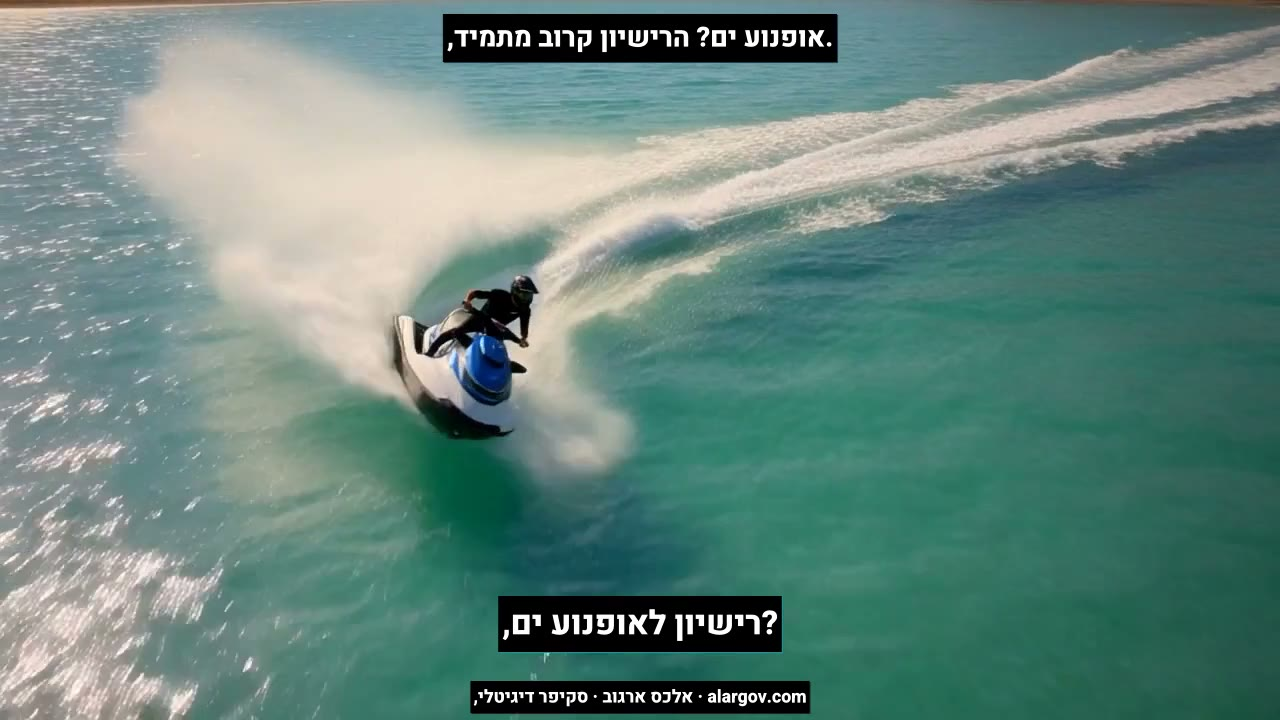
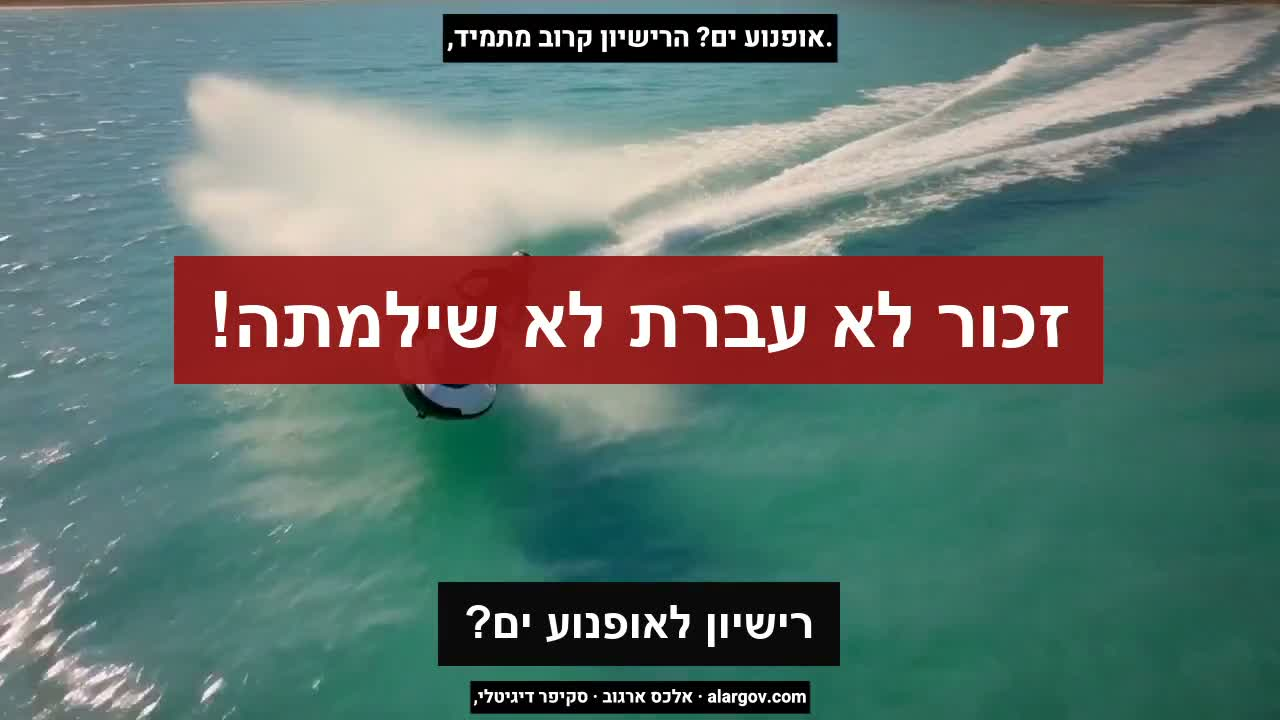
site: fix intro video VO + captions, update pricing/lesson-count copy, add license roadmap + dictionary link
- New intro.mp4: corrected pronunciation (edge-tts natural pace), fixed
  the "?רישיון לאופנוע ים" RTL caption bug, added the refund-reminder
  overlay at start and through the closing shot. Same scenes as before,
  each just retimed to the new VO.
- Homepage copy: mention the 13 lesson units everywhere the course is
  described (hero, price card, FAQ x2, meta/og description). Founders
  pricing banner now hides itself once slots sell out instead of
  showing a stale "10 first at 199" claim next to the sold-out note.
- "Coming soon" chips: named licenses 12 (fast boat, in progress),
  30 (yacht), 40 (commercial operator), 60 (GMDSS).
- Footer: link to the Marine Dictionary Android app.
- data/l11.json + the ezorei-shayit.html SEO page: completed a
  truncated answer option ("...5 קשרים (9קמ" -> "...9 קמ\"ש)."),
  using the wording already present in that question's own
  voiceover_text.

diff --git a/course/site/index.html b/course/site/index.html
@@ -4,14 +4,14 @@
 <meta charset="utf-8">
 <meta name="viewport" content="width=device-width, initial-scale=1, viewport-fit=cover">
 <title>קורס תיאוריה לאופנוע ים · הכנה למבחן רספ״ן | אלכס ארגוב</title>
-<meta name="description" content="קורס הכנה למבחן התאוריה (טסט) של רישיון אופנוע ים. כל שאלות המאגר הרשמי של רספ״ן, הסבר בקול רם לכל שאלה, מערכי שיעור מצולמים ומבחני דמה. לא עברת? קבל את כספך בחזרה.">
+<meta name="description" content="קורס הכנה למבחן התאוריה (טסט) של רישיון אופנוע ים. כל שאלות המאגר הרשמי של רספ״ן, הסבר בקול רם לכל שאלה, 13 מערכי שיעור מצולמים ומבחני דמה. לא עברת? קבל את כספך בחזרה.">
 <meta name="keywords" content="רשיון אופנוע ים, רישיון אופנוע ים, מבחן תיאוריה אופנוע ים, טסט אופנוע ים, טסט על אופנוע ים, תיאוריה שיט, מבחן רספן, קורס אופנוע ים, מאגר שאלות אופנוע ים">
 <meta name="theme-color" content="#0a1428">
 <link rel="canonical" href="https://www.alargov.com/">
 <meta name="sq-api" content="https://api.alargov.com"><!-- כתובת ה-API החי (Railway custom domain). -->
 <meta property="og:site_name" content="אלכס ארגוב · הכנה לתיאוריה בשיט">
 <meta property="og:title" content="קורס תיאוריה לאופנוע ים · הכנה למבחן רספ״ן">
-<meta property="og:description" content="לא עברת? קבל את כספך בחזרה. כל שאלות המאגר הרשמי, בליווי מערכי שיעור מצולמים והסבר קולי לכל שאלה.">
+<meta property="og:description" content="לא עברת? קבל את כספך בחזרה. כל שאלות המאגר הרשמי, בליווי 13 מערכי שיעור מצולמים והסבר קולי לכל שאלה.">
 <meta property="og:type" content="website">
 <meta property="og:url" content="https://www.alargov.com/">
 <meta property="og:locale" content="he_IL">
@@ -354,7 +354,7 @@
     {
       "@type": "Course",
       "name": "קורס תיאוריה לרישיון אופנוע ים (11)",
-      "description": "הכנה מלאה למבחן התאוריה של רישיון אופנוע ים: כל שאלות המאגר הרשמי של רספ״ן, הסבר קולי לכל שאלה, מערכי שיעור מצולמים ומבחני דמה בפורמט האמיתי.",
+      "description": "הכנה מלאה למבחן התאוריה של רישיון אופנוע ים: כל שאלות המאגר הרשמי של רספ״ן, הסבר קולי לכל שאלה, 13 מערכי שיעור מצולמים ומבחני דמה בפורמט האמיתי.",
       "inLanguage": "he",
       "provider": { "@id": "https://www.alargov.com/#org" },
       "offers": {
@@ -382,12 +382,12 @@
         {
           "@type": "Question",
           "name": "מה כולל הקורס?",
-          "acceptedAnswer": { "@type": "Answer", "text": "כל שאלות המאגר הרשמי, הסבר קולי לכל שאלה, מערכי שיעור מצולמים לפי נושאי הסילבוס, ומבחני דמה בפורמט האמיתי." }
+          "acceptedAnswer": { "@type": "Answer", "text": "כל שאלות המאגר הרשמי, הסבר קולי לכל שאלה, 13 מערכי שיעור מצולמים המכסים את כל נושאי הסילבוס, ומבחני דמה בפורמט האמיתי." }
         },
         {
           "@type": "Question",
           "name": "כמה עולה הקורס?",
-          "acceptedAnswer": { "@type": "Answer", "text": "10 הנרשמים הראשונים מקבלים גישה מלאה ב-199 ש״ח במסלול המייסדים. לאחר מכן המחיר 349 ש״ח." }
+          "acceptedAnswer": { "@type": "Answer", "text": "10 הנרשמים הראשונים מקבלים גישה מלאה ל-13 מערכי השיעור ולמאגר השאלות המלא ב-199 ש״ח במסלול המייסדים. לאחר מכן המחיר 349 ש״ח." }
         },
         {
           "@type": "Question",
@@ -441,7 +441,8 @@
       <h1>לא עברת? קבל את <span class="accent">כספך בחזרה.<span class="ast">*</span></span></h1>
       <p class="sub">כל שאלות המאגר, בליווי מערכי שיעור מסודרים שמסבירים לעומק כל שאלה ושאלה. לומדים, מתרגלים ומוודאים הבנה מלאה עד שמרגישים בטוחים, ניגשים למבחן ועוברים בהצלחה.</p>
       <div class="founders">
-        10 הנרשמים הראשונים מקבלים גישה מלאה ב־<b>₪199</b>. לאחר מכן המחיר עולה ל־<b>₪349</b>.
+        13 מערכי שיעור מלאים שמכסים את כל חומר המבחן, מאגר השאלות המלא וסרטון הסבר לכל שאלה.
+        <span id="foundersPriceLine">במחיר השקה: 10 הנרשמים הראשונים ב־<b>₪199</b>, אחר כך <b>₪349</b>.</span>
         <span class="spots-live" id="spotsHero"></span>
       </div>
       <div class="hero-actions">
@@ -456,7 +457,7 @@
       <div class="glow"></div>
       <div class="vframe" data-autoplay>
         <video controls autoplay muted playsinline preload="auto" poster="assets/intro-poster.jpg">
-          <source src="https://res.cloudinary.com/dzmyg9pel/video/upload/v1787133698/skipper-quiz/site/intro.mp4" type="video/mp4">
+          <source src="https://res.cloudinary.com/dzmyg9pel/video/upload/v1789303417/skipper-quiz/site/intro.mp4" type="video/mp4">
         </video>
         <button class="vplay" type="button" aria-label="נגן סרטון"><svg viewBox="0 0 24 24" fill="currentColor" aria-hidden="true"><path d="M8 5v14l11-7z"/></svg></button>
         <button class="vsound" type="button" aria-label="הפעל קול"><svg viewBox="0 0 24 24" fill="currentColor" aria-hidden="true"><path d="M3 10v4h4l5 5V5L7 10H3zm11.5 2a4.5 4.5 0 0 0-2.5-4.03v8.06A4.5 4.5 0 0 0 14.5 12zM14 3.23v2.06a7 7 0 0 1 0 13.42v2.06a9 9 0 0 0 0-17.54z"/></svg>הפעל קול</button>
@@ -540,7 +541,7 @@
         <span class="tag">זמין עכשיו</span>
         <div>
           <h3>רישיון אופנוע ים <span style="color:var(--faint);font-weight:700">(11)</span></h3>
-          <div class="sub">הקורס המלא: שיעורים, בנק שאלות וסרטונים, ומבחני דמה.</div>
+          <div class="sub">הקורס המלא: 13 מערכי שיעור, בנק שאלות וסרטונים, ומבחני דמה.</div>
         </div>
       </div>
       <div class="exam-cta">
@@ -551,12 +552,12 @@
         <div class="buy-guarantee">לא עברת? קבל את כספך חזרה.<span class="ast">*</span></div>
       </div>
     </div>
-    <div class="soon-label" data-reveal>בקרוב, אותה שיטה</div>
+    <div class="soon-label" data-reveal>בהכנה, אותה שיטה</div>
     <div class="soon" data-reveal>
-      <div class="chip"><b>12</b><span>בקרוב</span></div>
-      <div class="chip"><b>30</b><span>בקרוב</span></div>
-      <div class="chip"><b>40</b><span>בקרוב</span></div>
-      <div class="chip"><b>60</b><span>בקרוב</span></div>
+      <div class="chip"><b>12</b><span>משיט סירה מהירה · בעבודה</span></div>
+      <div class="chip"><b>30</b><span>משיט יאכטה · בהכנה</span></div>
+      <div class="chip"><b>40</b><span>משיט בשכר · בהכנה</span></div>
+      <div class="chip"><b>60</b><span>GMDSS · בהכנה</span></div>
     </div>
   </div>
 </section>
@@ -588,11 +589,11 @@
 <section id="price" style="background:var(--navy2)">
   <div class="wrap price" data-reveal>
     <div class="waves" style="margin-bottom:30px"><span></span><span></span><span></span></div>
-    <span class="eyebrow" style="justify-content:center">הצעת מייסדים</span>
-    <h2 style="margin-top:14px">10 מקומות במחיר מייסדים.</h2>
-    <div class="amount"><small>₪</small>199 <s>₪349</s></div>
+    <span class="eyebrow" style="justify-content:center" id="foundersEyebrow">הצעת מייסדים</span>
+    <h2 style="margin-top:14px" id="foundersH2">10 מקומות במחיר מייסדים.</h2>
+    <div class="amount" id="priceAmount"><small>₪</small>199 <s>₪349</s></div>
     <span class="spots-tag" id="spotsPrice">10 מקומות בלבד</span>
-    <p>10 הנרשמים הראשונים מקבלים גישה מלאה ב-₪199. אחרי 10 המקומות המחיר עולה ל-₪349.</p>
+    <p>13 מערכי שיעור מלאים, מאגר השאלות המלא ומבחני דמה. <span id="foundersPricePara">10 הנרשמים הראשונים ב-₪199, אחרי כן ₪349.</span></p>
     <div class="founders-terms">
       <div class="lead-in">בתמורה נבקש שלושה דברים קטנים:</div>
       <ul>
@@ -641,6 +642,7 @@
         <a href="/legal/privacy-policy.html">מדיניות פרטיות</a>
         <a href="/legal/refund-policy.html">ביטולים והחזרים</a>
         <a href="/legal/accessibility-statement.html">הצהרת נגישות</a>
+        <a href="https://play.google.com/store/apps/details?id=com.alexskipper.marinedictionary" target="_blank" rel="noopener">מילון מונחי ימאות · אפליקציה</a>
       </div>
     </div>
     <div class="legal">
@@ -797,11 +799,21 @@
     fetch(API+'/api/config').then(function(r){return r.json();}).then(function(j){
       var p=j&&j.pricing; if(!p) return;
       var left=Number(p.founders_left), taken=Number(p.founders_taken), slots=Number(p.founders_slots);
+      var soldOut = !(left>0);
       var txt = left>0
         ? ('נותרו '+left+' מקומות מתוך '+slots+(taken>0?(' · '+taken+' כבר נרשמו'):''))
         : ('המקומות אזלו · המחיר עלה ל־₪'+p.price_regular);
       var h=document.getElementById('spotsHero'); if(h){h.textContent=txt;h.classList.add('on');}
       var pr=document.getElementById('spotsPrice'); if(pr){pr.textContent=txt;}
+      // Founders offer sold out: the banner comes down -- drop the "10 first at 199"
+      // claim everywhere instead of leaving it up alongside a contradicting sold-out note.
+      if(soldOut){
+        var hp=document.getElementById('foundersPriceLine'); if(hp) hp.style.display='none';
+        var pp=document.getElementById('foundersPricePara'); if(pp) pp.style.display='none';
+        var ey=document.getElementById('foundersEyebrow'); if(ey) ey.textContent='רישום פתוח';
+        var h2=document.getElementById('foundersH2'); if(h2) h2.textContent='גישה מלאה לקורס.';
+        var amt=document.getElementById('priceAmount'); if(amt) amt.innerHTML='<small>₪</small>'+p.price_regular;
+      }
     }).catch(function(){});
   })();
 </script>

diff --git a/course/site/ofnoa-yam/ezorei-shayit.html b/course/site/ofnoa-yam/ezorei-shayit.html
@@ -49,7 +49,7 @@
         "answerCount": 1,
         "acceptedAnswer": {
           "@type": "Answer",
-          "text": "מקו החוף ועד 300 מטרים ממנו עלי לשוט בקו ניצב לקו החוף, ובמהירות שלא תעלה על 5 קשרים (9קמ אחרי 300 המטרים אני רשאי לשוט בהתאם לטווח המירבי הרשום ברשיון השיט של האופנוע."
+          "text": "מקו החוף ועד 300 מטרים ממנו עלי לשוט בקו ניצב לקו החוף, ובמהירות שלא תעלה על 5 קשרים (9 קמ\"ש). אחרי 300 המטרים אני רשאי לשוט בהתאם לטווח המירבי הרשום ברשיון השיט של האופנוע."
         }
       }
     },
@@ -84,7 +84,7 @@
     <ul class="opts">
       <li class="opt">עלי להוביל את האופנוע שי ברגל עד 50 מטרים מקו החוף ורק אז אוכל להתניע ולשוט באופן חופשי.</li>
       <li class="opt">אני יכול להתניע את האופנוע ברגע שעומק המים מספיק, ולשוט באופן חופשי.</li>
-      <li class="opt correct">מקו החוף ועד 300 מטרים ממנו עלי לשוט בקו ניצב לקו החוף, ובמהירות שלא תעלה על 5 קשרים (9קמ</li>
+      <li class="opt correct">מקו החוף ועד 300 מטרים ממנו עלי לשוט בקו ניצב לקו החוף, ובמהירות שלא תעלה על 5 קשרים (9 קמ"ש).</li>
       <li class="opt">אני חייב להשתמש ליציאה וחזרה בנתיב מסומן במצופים המיועד לכלי שיט. אם אין נתיב כזה אסור לי להשיט את האופנוע.</li>
     </ul>
     <div class="exp">
